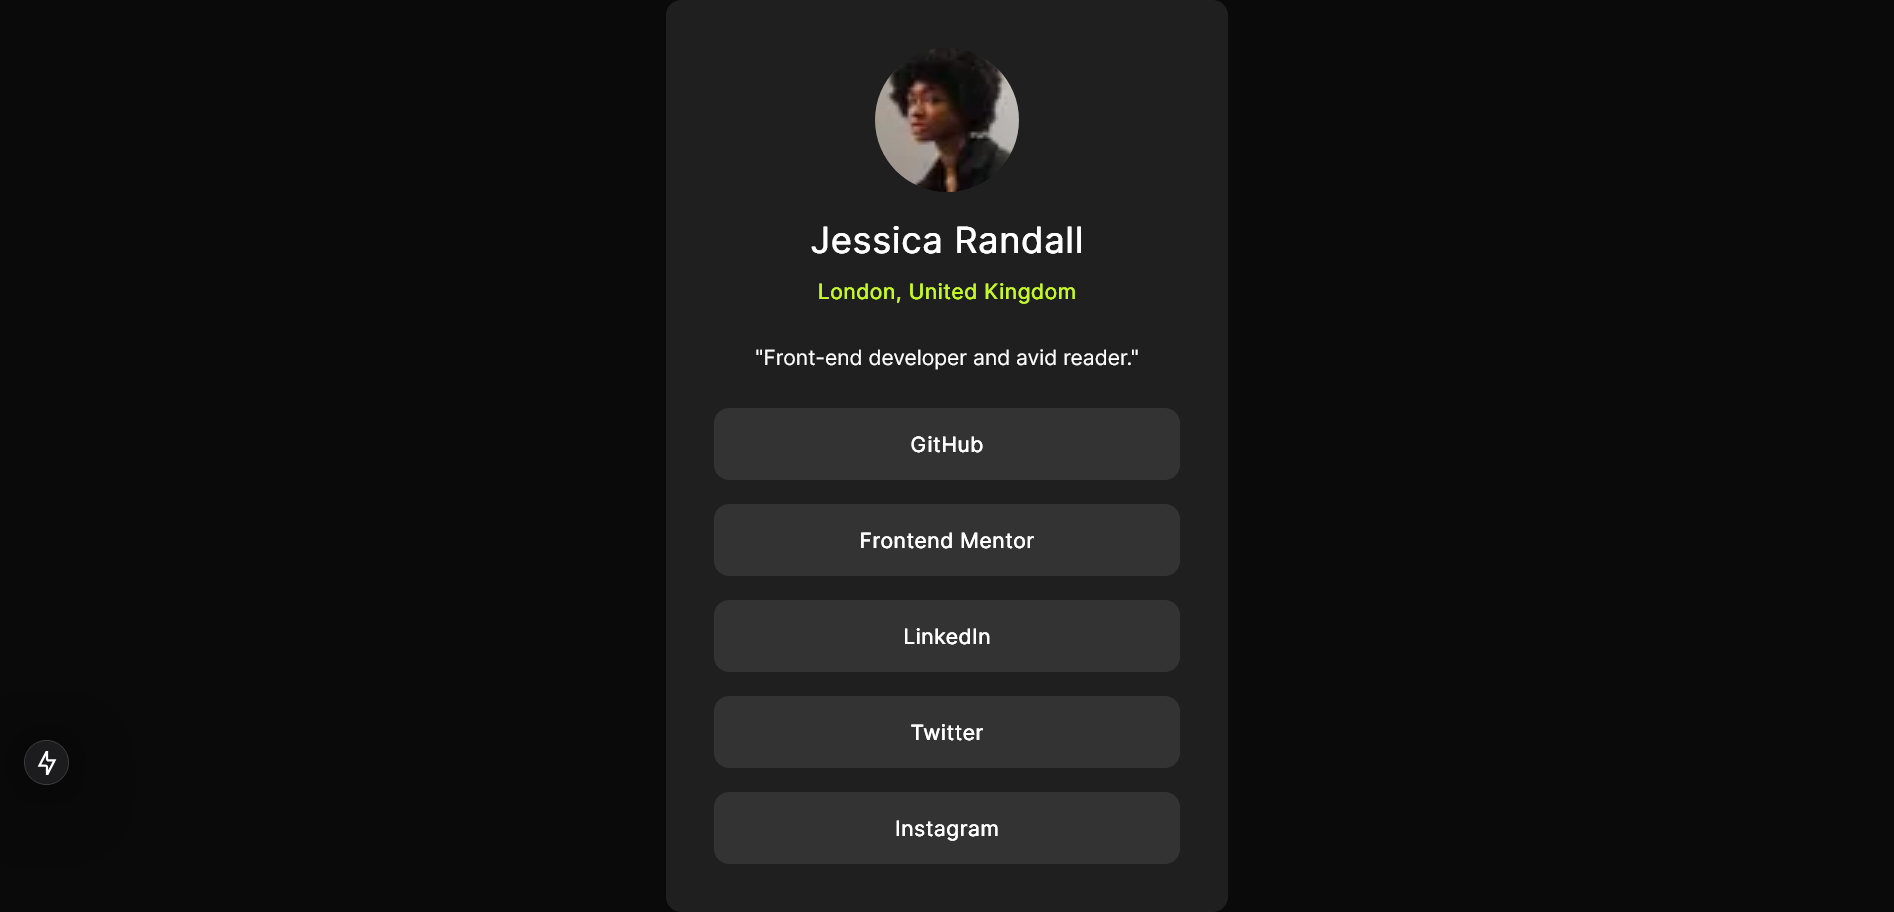
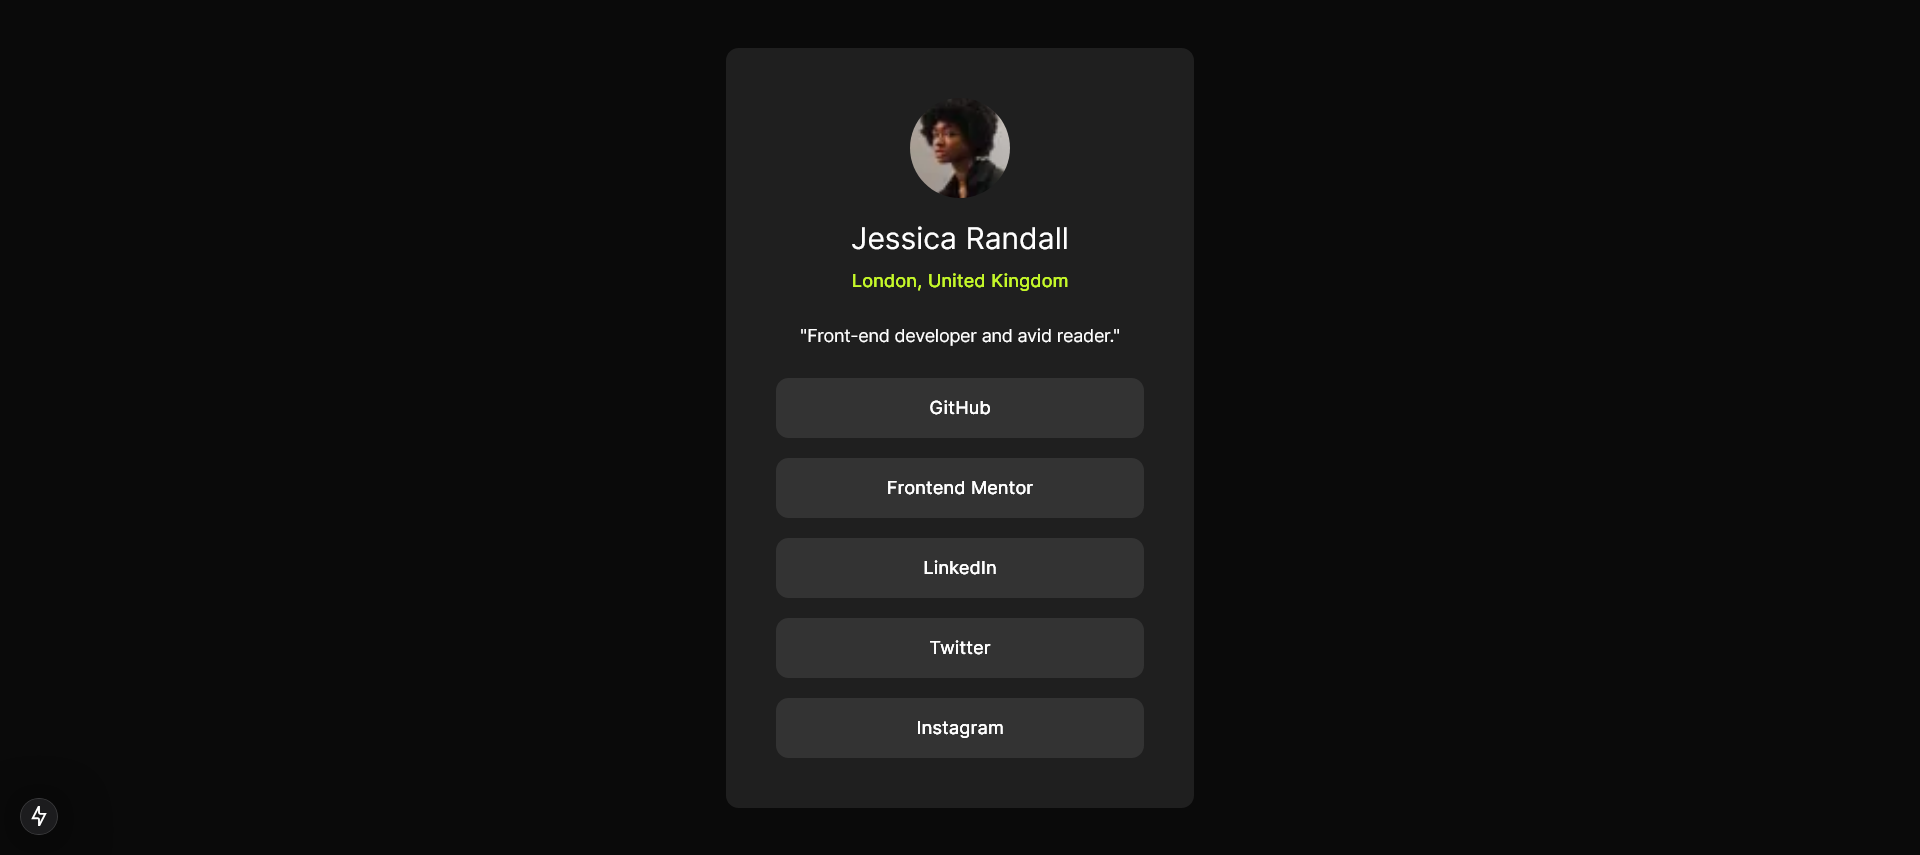
fix padding

diff --git a/src/app/components/LinksProfile.tsx b/src/app/components/LinksProfile.tsx
@@ -27,8 +27,8 @@ const socialLinks: string[] = [
 
 export default function LinksProfile() {
     return (
-        <div className="bg-profile-grey-800 flex flex-col justify-center items-center p-8 gap-4 w-32 mobile:w-[375px] desktop:w-[375px] rounded-custom-lg">
-            <Image src={userProfile.avatar} alt={userProfile.name} className="w-24 h-24 rounded-full" width={24} height={24} />
+        <div className="bg-profile-grey-800 flex flex-col justify-center items-center p-10 gap-4 w-32 mobile:w-[375px] desktop:w-[375px] rounded-custom-lg">
+            <Image src={userProfile.avatar} alt={userProfile.name} className="w-20 h-20 rounded-full" width={20} height={20} />
             <section className="space-y-2 text-center">
                 <h1 className="text-2xl font-bold text-profile-white">{userProfile.name}</h1>
                 <address className="text-sm text-profile-green font-bold not-italic">{userProfile.location}</address>
